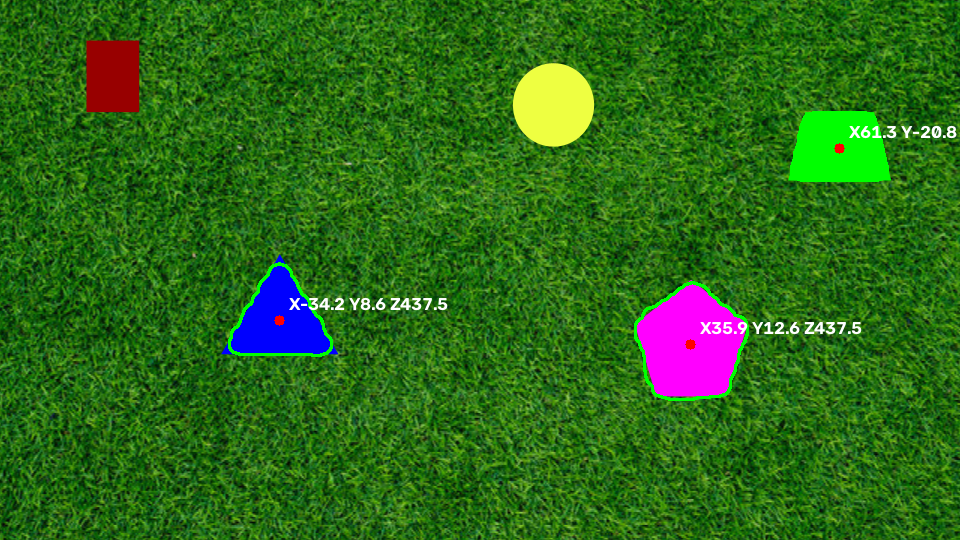
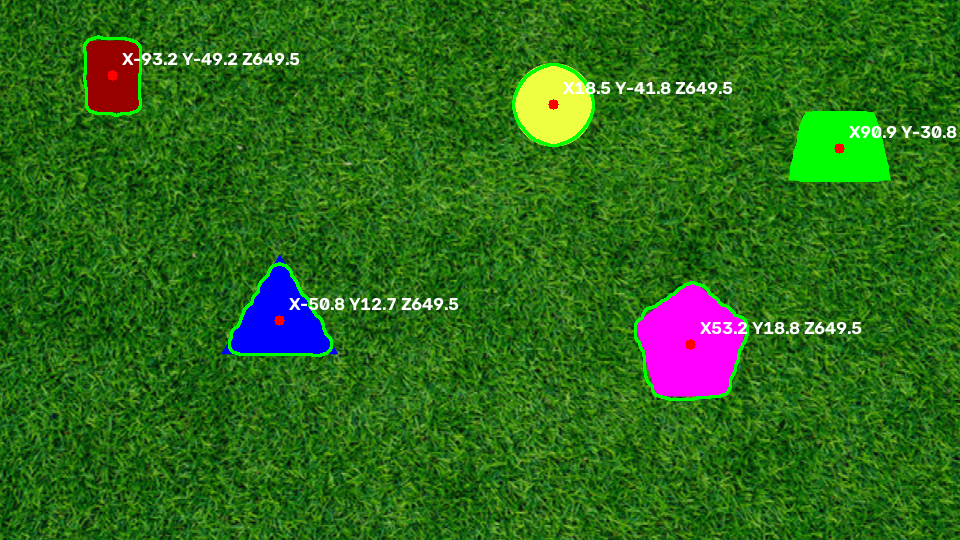
Use relative min_area in mask_to_detections
Introduce MIN_AREA_FRAC and make mask_to_detections default min_area to a fraction of the frame area (MIN_AREA_FRAC * H * W) so detection thresholds behave consistently across resolutions. Allow callers to still pass an explicit pixel count to override. Also add clarifying comments in estimate_xyz about scale coming from the circle radius and the camera axis conventions. Miscellaneous binary updates (.DS_Store, __pycache__, out/static.png) included.

diff --git a/PennAir Challenge/detector.py b/PennAir Challenge/detector.py
@@ -57,6 +57,12 @@ TEXTURE_GROW_RATIO = 0.60
 # usual tutorial value of 0.5, which gives up on all but slight overlaps.
 SEED_FRAC = 0.85
 
+# Smallest blob accepted as a shape, as a FRACTION of the frame area. Absolute
+# pixel counts do not transfer between resolutions: the same scene at 960x540
+# has quarter-sized shapes, and a threshold tuned on 1080p then lands in the
+# middle of the real shapes instead of below them.
+MIN_AREA_FRAC = 0.0024113
+
 
 # =============================================================================
 # BUILD THE MASK
@@ -224,11 +230,17 @@ def _split_blob(contour, seed_frac=SEED_FRAC, min_piece_area=500):
 # STEP 2 OF THE PIPELINE: MASK -> LIST OF SHAPES
 # =============================================================================
 
-def mask_to_detections(mask, min_area=5000, min_solidity=0.70, border_margin=3):
+def mask_to_detections(mask, min_area=None, min_solidity=0.70, border_margin=3):
     """Mask -> list of dicts with contour, center, xyz, area, solidity, clipped,
-    was_split. xyz stays None until estimate_xyz() fills it in."""
+    was_split. xyz stays None until estimate_xyz() fills it in.
+
+    min_area defaults to MIN_AREA_FRAC of the frame so it works at any
+    resolution; pass an explicit pixel count to override.
+    """
 
     H, W = mask.shape[:2]
+    if min_area is None:
+        min_area = MIN_AREA_FRAC * H * W
     contours, _ = cv2.findContours(mask, cv2.RETR_EXTERNAL, cv2.CHAIN_APPROX_SIMPLE)
 
     detections = []
@@ -359,6 +371,10 @@ def estimate_xyz(detections, image_shape, fx=FX, fy=FY, cx=None, cy=None,
         r = f * R / Z   (similar triangles)  ->  Z = f * R / r
         X = (u - cx) * Z / fx
         Y = (v - cy) * Z / fy
+
+    R is known only for the circle, so it sets the scale; the flat-surface
+    assumption then gives every shape the same Z. Axes are +X right, +Y DOWN,
+    +Z away from the camera. Pass z_plane to supply the depth from outside.
     """
 
     H, W = image_shape[:2]
